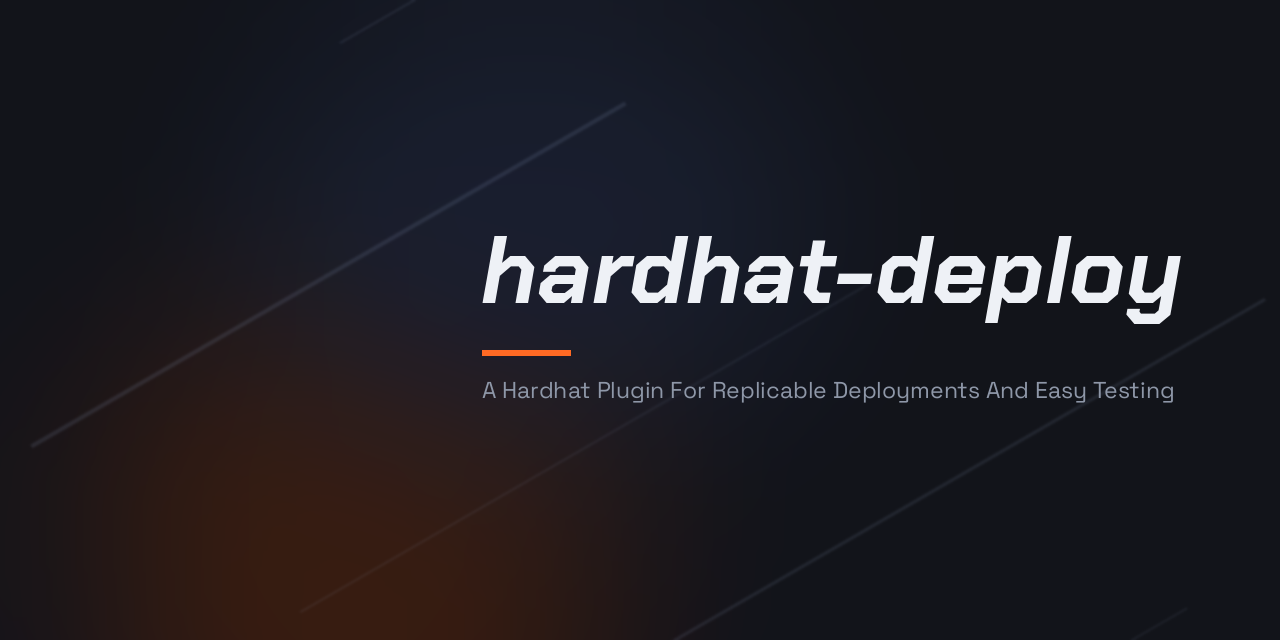
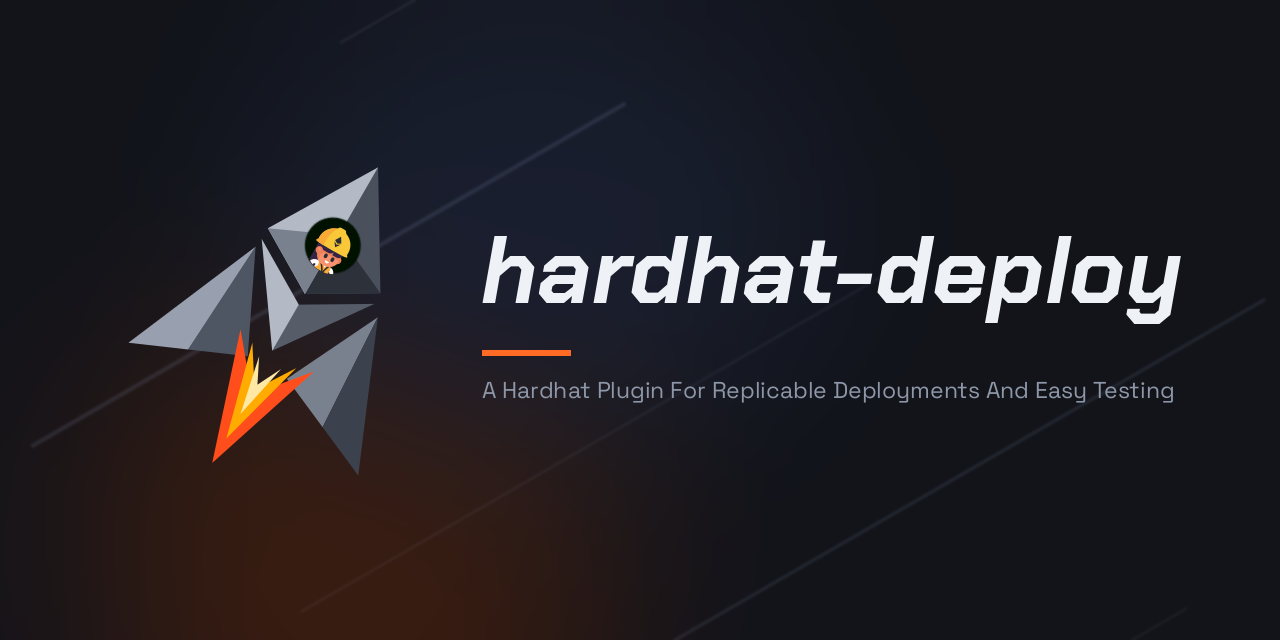
fix(media): the generated hardhat-deploy mark was invalid XML and rendered blank
public/hardhat-deploy-logo.svg was malformed, so the mark was missing
entirely from public/hardhat-deploy-preview.png, which shipped as text on
an empty background.

Cause: hardhat-pilot.svg carries a comment warning "DO NOT strip <defs>",
and the defs-extraction regex matched that literal string inside the
comment rather than the real element. That split the file mid-comment and
left unterminated markup. The warning written to prevent one silent
failure caused another.

Comments are now stripped before the element is located.

The existing check did not catch this because it only asserted that every
url(#id) had a matching id somewhere in the TEXT. Both were present in
the broken output, so it passed. Two real post-conditions replace it:

- the generated SVG must parse as well-formed XML
- render_svg() fails if a raster comes back fully transparent, which
  catches any malformed source at the point it is first drawn

Both were verified by reintroducing the defect and confirming the build
now exits non-zero.

public/preview.png and public/icon.png are unchanged.

Changed region(s): [[0.0938, 0.25, 0.3125, 0.75]]

diff --git a/media/build.py b/media/build.py
@@ -29,6 +29,7 @@ Layout notes worth keeping:
 from PIL import Image, ImageDraw, ImageFont, ImageFilter
 import re
 import subprocess
+import xml.etree.ElementTree as ET
 import sys
 from pathlib import Path
 
@@ -122,6 +123,8 @@ def render_svg(src, px):
     img = Image.open(tmp).convert("RGBA")
     img.load()
     tmp.unlink()
+    if img.getchannel("A").getbbox() is None:
+        sys.exit(f"{src} rendered to a fully transparent image - malformed SVG?")
     return img
 
 
@@ -268,6 +271,10 @@ def build_hd_logo():
     vb = re.search(r'viewBox="([\d.\-\s]+)"', praw).group(1).split()
     pw, ph = float(vb[2]), float(vb[3])
     pbody = re.search(r"<svg[^>]*>(.*)</svg>", praw, re.S).group(1)
+    # Strip comments FIRST. hardhat-pilot.svg's own warning text contains the
+    # literal "<defs>", and matching that instead of the real element splits the
+    # file mid-comment and produces invalid XML.
+    pbody = re.sub(r"<!--.*?-->", "", pbody, flags=re.S)
     pdefs = "".join(re.findall(r"<defs\b.*?</defs>", pbody, re.S))
     pbody = re.sub(r"<defs\b.*?</defs>", "", pbody, flags=re.S)
     if "clipPath" not in pdefs:
@@ -285,6 +292,10 @@ def build_hd_logo():
         f'    <g transform="translate({tx:.3f},{ty:.3f}) scale({scale:.6f})">\n'
         f"{pbody}\n    </g>\n  </g>\n</svg>\n"
     )
+    try:
+        ET.fromstring(out)
+    except ET.ParseError as exc:
+        sys.exit(f"generated {OUT_HD_LOGO.name} is not well-formed XML: {exc}")
     OUT_HD_LOGO.write_text(out)
     refs = set(re.findall(r"url\(#([^)]+)\)", out))
     defined = set(re.findall(r'<\w+[^>]*\bid="([^"]+)"', out))
